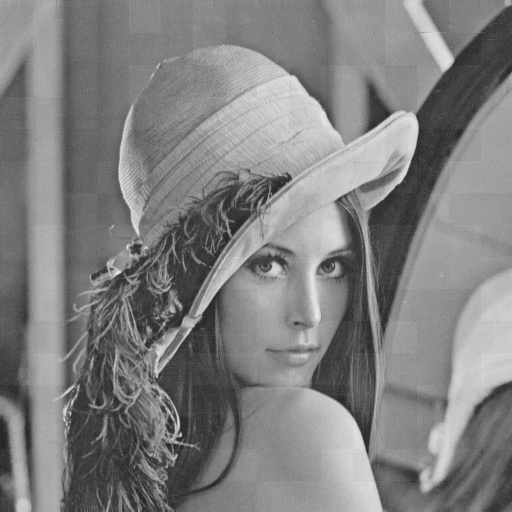
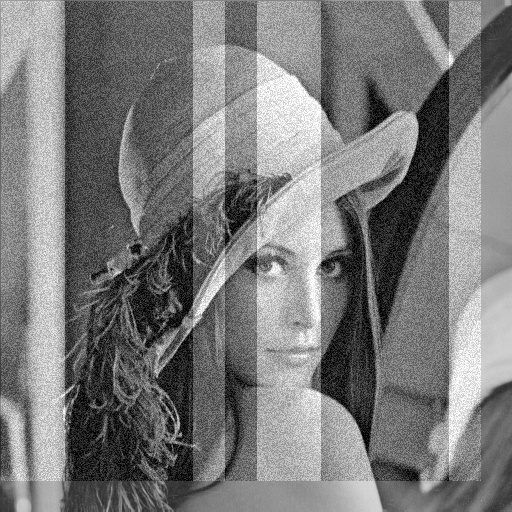
aktualizacja mastera

diff --git a/python/1/WatermarkImage.py b/python/1/WatermarkImage.py
@@ -1,0 +1,182 @@
+import numpy as np
+import cv2
+import random
+
+
+class WatermarkImage:
+
+    def __init__(self, original_image=False, message=""):
+
+        if original_image is False:
+            self.org = np.zeros((512, 512), np.uint8)
+        else:
+            self.org = cv2.imread(original_image, 0)  #f.k.a. img
+
+        self.message = message
+
+        if len(self.message) < 32:
+            difference = 32 - len(self.message)
+            message += difference * "1"
+
+        self.message_binary = ""
+        self.message_numbers = []
+        self.temporary_binary = ""
+
+
+        self.message_detected = ""
+        self.message_binary_detected = ""
+        self.detected_letters_binary = []
+
+        self.height = self.org.shape[0]
+        self.width = self.org.shape[1]
+
+        self.K = 32
+        self.Mb = self.width / self.K
+        self.Nb = self.height / self.K
+
+        self.message_matrix = np.zeros((self.K, self.K), np.uint8)  #formerly known as blank_image_signed
+
+        self.watermark = np.zeros((self.width, self.height), np.int8)  # f.k.a. resized_image_signed
+
+        self.watermark_visible = np.zeros((self.width, self.height), np.uint8)  # f.k.a. resized_image_signed
+
+        self.noise = np.zeros((self.width, self.height), np.int8)  #f.k.a. noise_signed
+        self.noise_is_set = False
+
+        self.noised_watermark = np.zeros((self.width, self.height), np.int8)  #f.k.a. noise_mark
+
+        self.img_with_message = self.org  #f.k.a. new_image
+
+        self.kernel = np.array([[-1, -1, -1, -1, -1],
+                                [-1, 1, 2, 1, -1],
+                                [-1, 2, 4, 2, -1],
+                                [-1, 1, 2, 1, -1],
+                                [-1, -1, -1, -1, -1]])
+
+        self.dst = np.zeros((self.width, self.height), np.uint8)
+
+        self.demmod_img = np.zeros((self.width, self.height), np.int8)
+
+        self.watermark_detected = np.zeros((self.width, self.height), np.uint8)  #f.k.a. ZnakDetekt
+
+    def getHeight(self):
+        return self.height
+
+    def getWidth(self):
+        return self.width
+
+    def convert_to_eight_bit(self,string):
+        if len(string) == 8:
+            return string
+        else:
+            difference = 8 - len(string)
+            newstring = difference * '0'
+            newstring += string
+            return newstring
+
+    def set_message_matrix(self):
+        # at this moment we do not use paremeter: "message"
+        # We are still using random numbers to fill matrix
+#        for i in range(self.K):
+#            for j in range(self.K):
+#                self.message_matrix[i, j] = random.randint(0, 1)
+#                if self.message_matrix[i][j] == 0:
+#                    self.message_matrix[i][j] = -1
+        for c in self.message:
+            self.temporary_binary = bin(ord(c))
+            self.eight_bit_binary = self.convert_to_eight_bit(self.temporary_binary[2:])
+            self.message_binary += self.eight_bit_binary
+        for i in range(16):
+            for j in range(16):
+                if self.message_binary[i*16+ j] == '1':
+                    self.message_matrix[i, j] = 1
+                else:
+                    self.message_matrix[i, j] = -1
+
+
+
+    def set_watermark(self):
+        for i in range(self.Mb):
+            for j in range(self.Nb):
+                self.watermark[(i - 1) * self.K + 1:i * self.K + 1, (j - 1) * self.K + 1:j * self.K + 1] = \
+                    self.message_matrix[i][j]
+                self.watermark_visible[(i - 1) * self.K + 1:i * self.K + 1, (j - 1) * self.K + 1:j * self.K + 1] = \
+                    self.message_matrix[i][j]
+
+    def set_noise(self):
+        for i in range(self.width):
+            for j in range(self.height):
+                self.noise[i][j] = random.randint(1, 60)
+        self.noise_is_set = True
+
+    def set_noised_watermark(self):
+        self.noised_watermark = self.noise * self.watermark
+
+    def set_img_with_message(self,image_from_file = False):
+        if image_from_file is False:
+            self.img_with_message = self.org + self.noised_watermark
+        else:
+            self.img_with_message = cv2.imread(image_from_file, 0)
+            self.height = self.img_with_message.shape[0]
+            self.width = self.img_with_message.shape[1]
+            self.Mb = self.width / self.K
+            self.Nb = self.height / self.K
+
+    def write_watermark(self):
+        self.set_message_matrix()
+        self.set_watermark()
+        self.set_noise()
+        self.set_noised_watermark()
+        self.set_img_with_message()
+
+    def set_dst(self):
+        self.dst = cv2.filter2D(self.img_with_message, -1, self.kernel)
+
+    def set_demmod_img(self):
+        self.demmod_img = self.dst * self.noise
+
+    def set_watermark_detected(self):
+        for i in range(self.Mb):
+            for j in range(self.Nb):
+                self.watermark_detected[(i - 1) * self.K + 1:i * self.K + 1, (j - 1) * self.K + 1:j * self.K + 1] = \
+                    np.sign(np.sum(self.demmod_img[(i - 1) * self.K + 1:i * self.K + 1, (j - 1) * self.K + 1:j * self.K + 1]))
+                if np.sign(np.sum(self.demmod_img[(i - 1) * self.K + 1:i * self.K + 1, (j - 1) * self.K + 1:j * self.K + 1])) > 0:
+                    self.message_binary_detected += '1'
+                else:
+                    self.message_binary_detected += '0'
+
+    def set_message_detected(self):
+        self.detected_letters_binary = [self.message_binary_detected[i:i+8] for i in range(0, len(self.message_binary_detected), 8)]
+        for item in self.detected_letters_binary:
+            self.c = chr(int(item,2))
+            self.message_detected += self.c
+
+    def check_watermark_detected(self):
+        self.check_watermark_detected = self.watermark_detected - self.watermark_visible
+        self.error_rate = np.sum(self.check_watermark_detected)
+
+    def read_watermark(self):
+        self.set_dst()
+        if self.noise_is_set is False:
+            self.set_noise()
+        self.set_demmod_img()
+        self.set_watermark_detected()
+        self.set_message_detected()
+        self.check_watermark_detected()
+
+    def write_all_images_to_files(self):
+        cv2.imwrite('message_matrix.jpeg', self.message_matrix)
+        cv2.imwrite('watermark.jpeg', self.watermark)
+        cv2.imwrite('watermark_visible.jpeg', self.watermark_visible)
+        cv2.imwrite('noise.jpeg', self.noise)
+        cv2.imwrite('noised_watermark.jpeg', self.noised_watermark)
+        cv2.imwrite('img_with_message.jpeg', self.img_with_message)
+        cv2.imwrite('dst.jpeg', self.dst)
+        cv2.imwrite('demmod_img.jpeg', self.demmod_img)
+        cv2.imwrite('watermark_detected.jpeg', self.watermark_detected)
+        cv2.imwrite('check_watermark_detected.jpeg', self.check_watermark_detected)
+
+
+#####################################################################
+# end of class WatermarkImage
+#####################################################################

diff --git a/python/1/script.py b/python/1/script.py
@@ -1,144 +1,30 @@
+#!/usr/bin/env python
 # import sys
 #sys.path.append('/usr/local/lib/python2.7/site-packages')
-import numpy as np
-import cv2
-import random
+from WatermarkImage import WatermarkImage
 
+#file_path = raw_input("Please enter file path")
+#users_message = raw_input("Please enter your message")
 
-class WatermarkImage:
-    def __init__(self, original_image, message):
-        self.org = cv2.imread(original_image, 0)  #f.k.a. img
-        self.message = message
+file_path = 'lena.bmp'
+users_message = 'aaaaaaaaaaaaaaaaaaaaaaaaaaaaaaaa'
 
-        self.height = self.org.shape[0]
-        self.width = self.org.shape[1]
-
-        self.K = 32
-        self.Mb = self.width / self.K
-        self.Nb = self.height / self.K
-
-        self.message_matrix = np.zeros((self.K, self.K), np.uint8)  #formerly known as blank_image_signed
-
-        self.watermark = np.zeros((self.width, self.height), np.int8)  # f.k.a. resized_image_signed
-
-        self.watermark_visible = np.zeros((self.width, self.height), np.uint8)  # f.k.a. resized_image_signed
-
-        self.noise = np.zeros((self.width, self.height), np.int8)  #f.k.a. noise_signed
-
-        self.noised_watermark = np.zeros((self.width, self.height), np.int8)  #f.k.a. noise_mark
-
-        self.img_with_message = self.org  #f.k.a. new_image
-
-        self.kernel = np.array([[-1, -1, -1, -1, -1],
-                                [-1, 1, 2, 1, -1],
-                                [-1, 2, 4, 2, -1],
-                                [-1, 1, 2, 1, -1],
-                                [-1, -1, -1, -1, -1]])
-
-        self.dst = np.zeros((self.width, self.height), np.uint8)
-
-        self.demmod_img = np.zeros((self.width, self.height), np.int8)
-
-        self.watermark_detected = np.zeros((self.width, self.height), np.uint8)  #f.k.a. ZnakDetekt
-
-
-    def getHeight(self):
-        return self.height
-
-
-    def getWidth(self):
-        return self.width
-
-
-    def set_message_matrix(self, message):
-        # at this moment we do not use paremeter: "message"
-        # We are still using random numbers to fill matrix
-        for i in range(self.K):
-            for j in range(self.K):
-                self.message_matrix[i, j] = random.randint(0, 1)
-                if self.message_matrix[i][j] == 0:
-                    self.message_matrix[i][j] = -1
-
-
-    def set_watermark(self):
-        for i in range(1, self.Mb + 1):
-            for j in range(1, self.Nb + 1):
-                self.watermark[(i - 1) * self.K + 1:i * self.K + 1, (j - 1) * self.K + 1:j * self.K + 1] = \
-                    self.message_matrix[i][j]
-                self.watermark_visible[(i - 1) * self.K + 1:i * self.K + 1, (j - 1) * self.K + 1:j * self.K + 1] = \
-                    self.message_matrix[i][j]
-
-	# The following def is not used, because of line added above ( self.watermark_visible)
-#    def set_watermark_visible(self):
-#        for i in range(1, self.Mb + 1):
-#            for j in range(1, self.Nb + 1):
-#                if self.watermark[i][j] == -1:
-#                    self.watermark_visible[i][j] = 255
-#                else:
-#                    self.watermark_visible[i][j] = 0
-
-    def set_noise(self):
-        for i in range(self.width):
-            for j in range(self.height):
-                self.noise[i][j] = random.randint(1, 6)
-
-    def set_noised_watermark(self):
-        self.noised_watermark = self.noise * self.watermark
-
-    def set_img_with_message(self):
-        self.img_with_message = self.org + self.noised_watermark
-
-    def write_watermark(self):
-        self.set_message_matrix("")
-        self.set_watermark()
-     #   self.set_watermark_visible()
-        self.set_noise()
-        self.set_noised_watermark()
-        self.set_img_with_message()
-
-
-    def set_dst(self):
-        self.dst = cv2.filter2D(self.img_with_message, -1, self.kernel)
-
-
-    def set_demmod_img(self):
-        self.demmod_img = self.dst * self.noise
-
-
-    def set_watermark_detected(self):
-        for i in range(1, self.Mb + 1):
-            for j in range(1, self.Nb + 1):
-                self.watermark_detected[(i - 1) * self.K + 1:i * self.K + 1, (j - 1) * self.K + 1:j * self.K + 1] = np.sign(
-                    np.sum(self.demmod_img[(i - 1) * self.K + 1:i * self.K + 1, (j - 1) * self.K + 1:j * self.K + 1]))
-
-
-    def read_watermark(self):
-        self.set_dst()
-        self.set_demmod_img()
-        self.set_watermark_detected()  
-
-    def write_all_images_to_files(self):
-	cv2.imwrite('message_matrix.jpeg', self.message_matrix)
-	cv2.imwrite('watermark.jpeg', self.watermark)
-	cv2.imwrite('watermark_visible.jpeg', self.watermark_visible)
-	cv2.imwrite('noise.jpeg', self.noise)
-	cv2.imwrite('noised_watermark.jpeg', self.noised_watermark)
-	cv2.imwrite('img_with_message.jpeg', self.img_with_message)
-	cv2.imwrite('dst.jpeg', self.dst)
-	cv2.imwrite('demmod_img.jpeg', self.demmod_img)
-	cv2.imwrite('watermark_detected.jpeg', self.watermark_detected)
-
-
-#####################################################################
-# end of class WatermarkImage
-#####################################################################
-
-
-img = WatermarkImage('lena.bmp', "")
+img = WatermarkImage(file_path, users_message)
 img.write_watermark()
 #####################################################################
+
+#file_with_message_path = raw_input("Please enter file path")
+
+#img_with_message_path = 'img_with_message.jpeg'
+
+#img_to_decode = WatermarkImage()
+
+#img_to_decode.set_img_with_message(img_with_message_path)
+
+#img_to_decode.read_watermark()
+
 img.read_watermark()
 #####################################################################
 img.write_all_images_to_files()
 
-
+print img.message_detected
